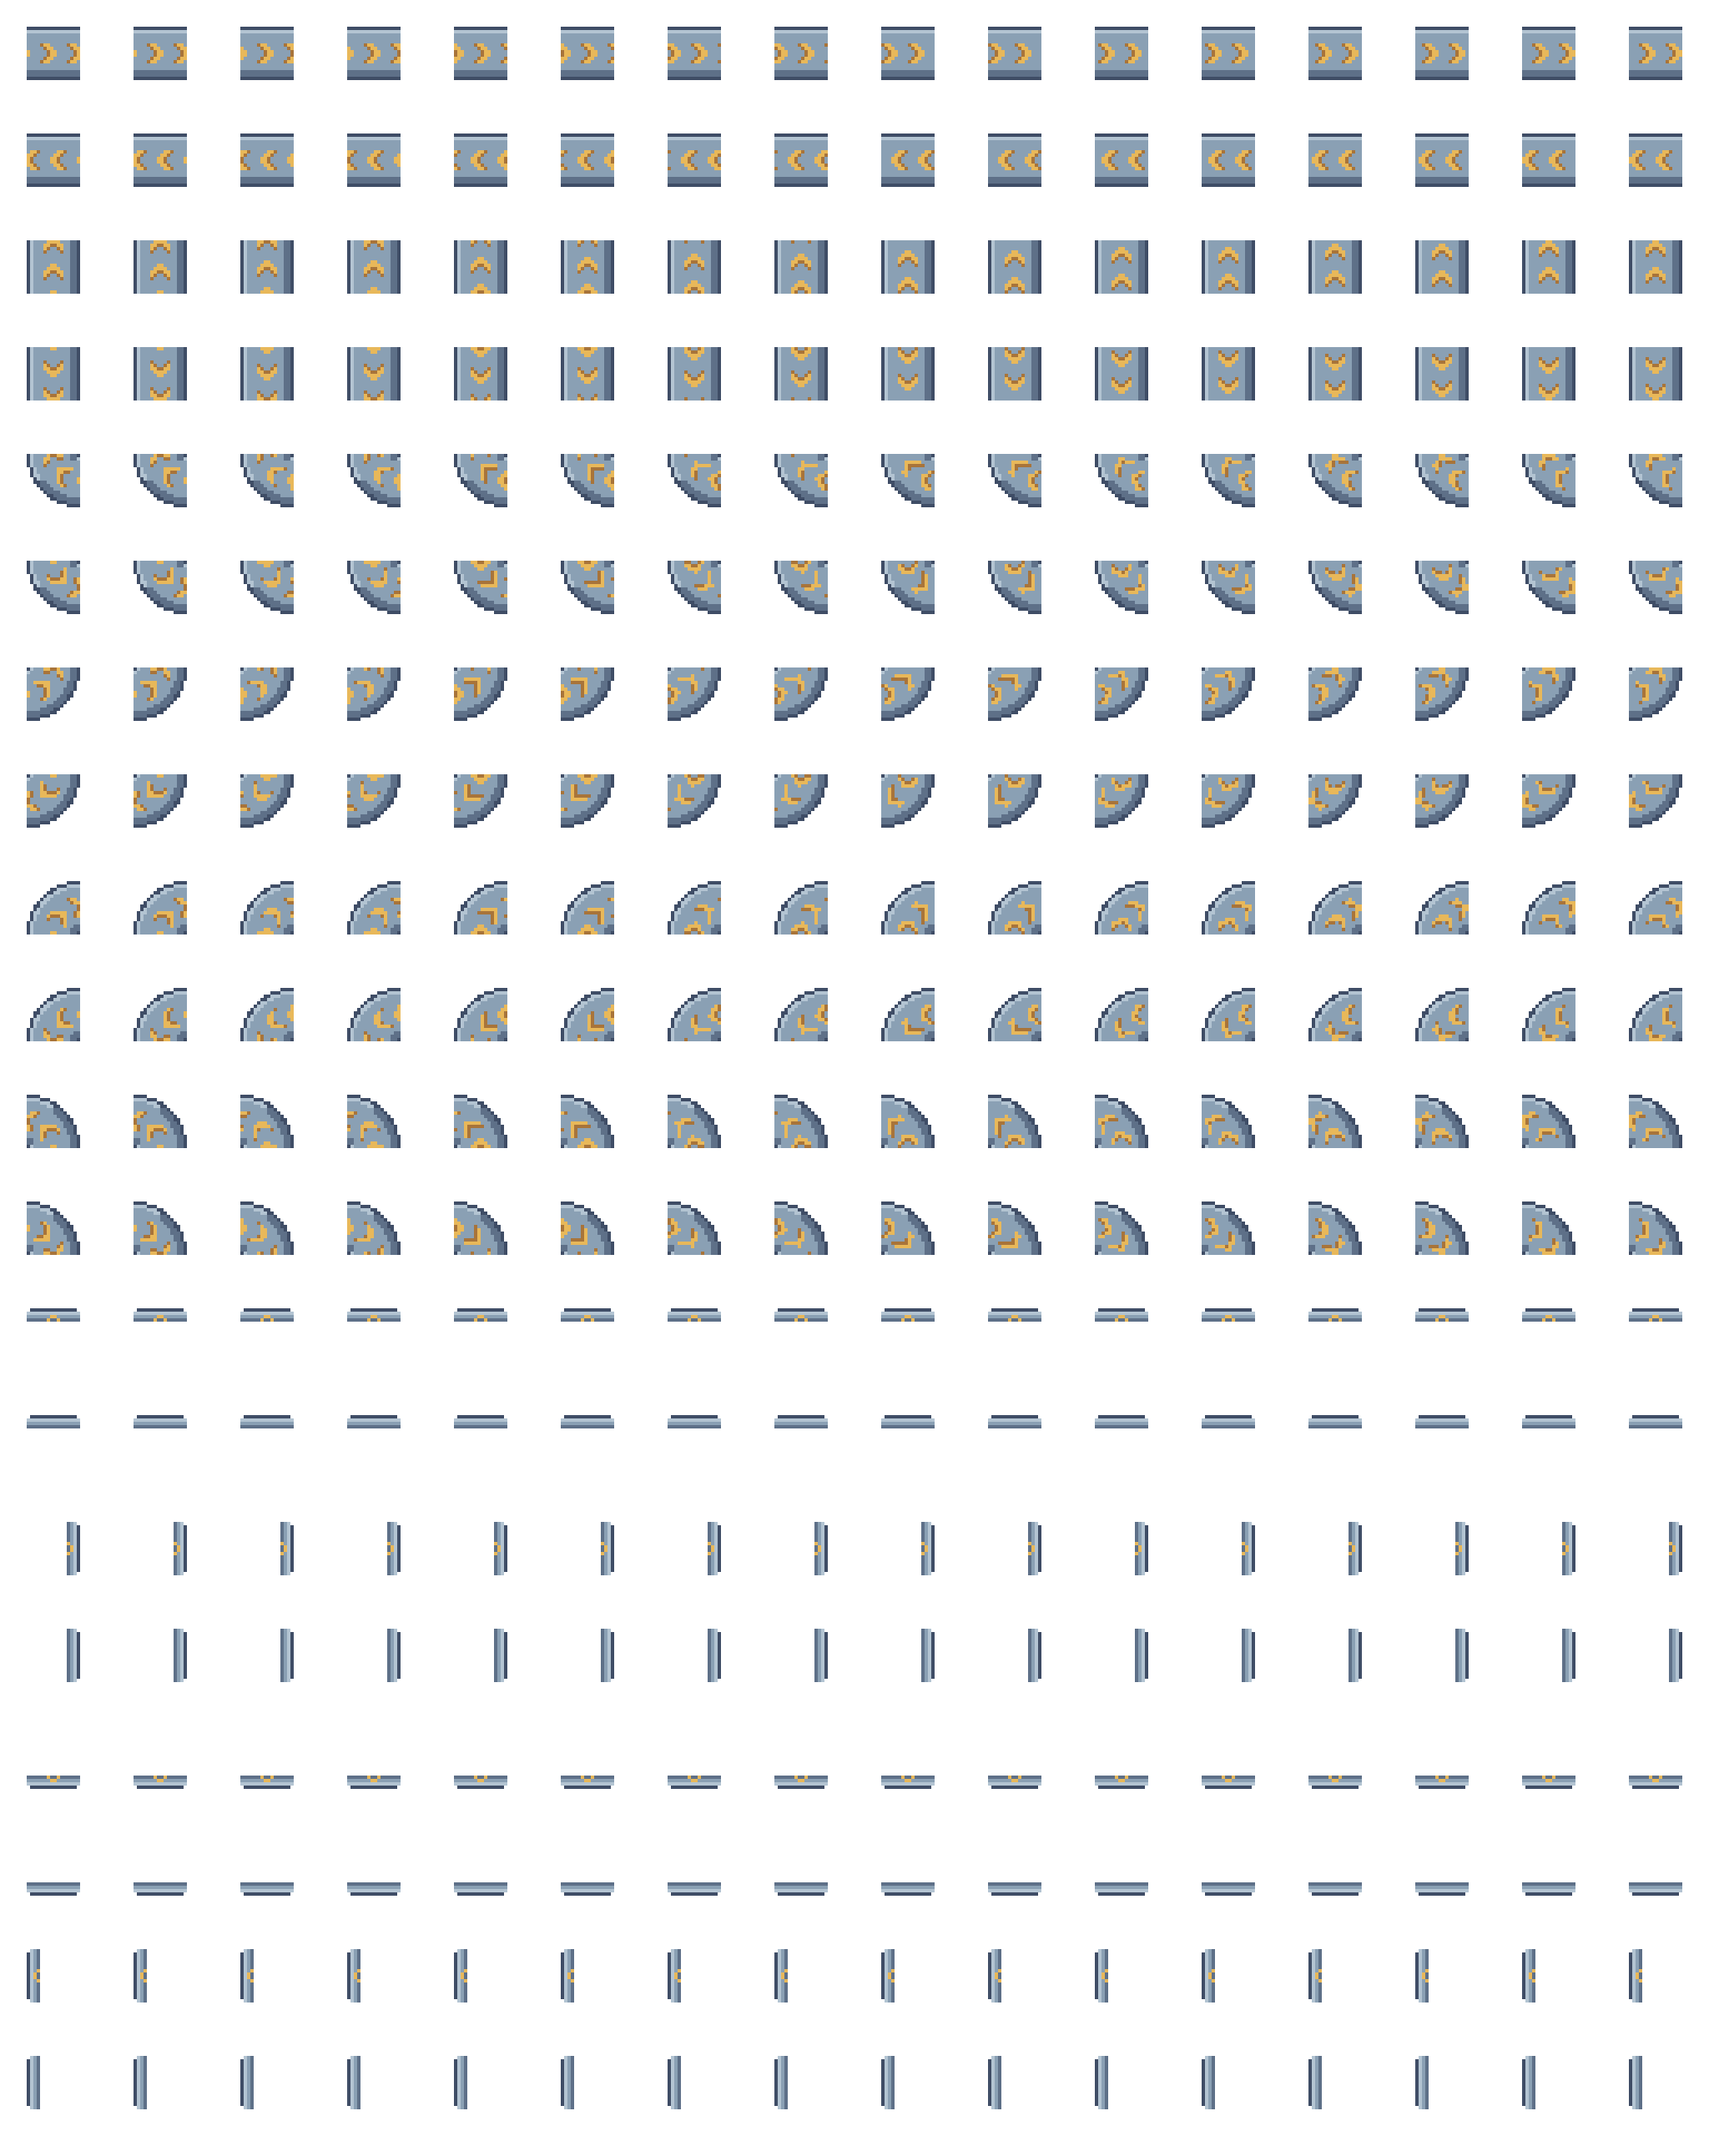
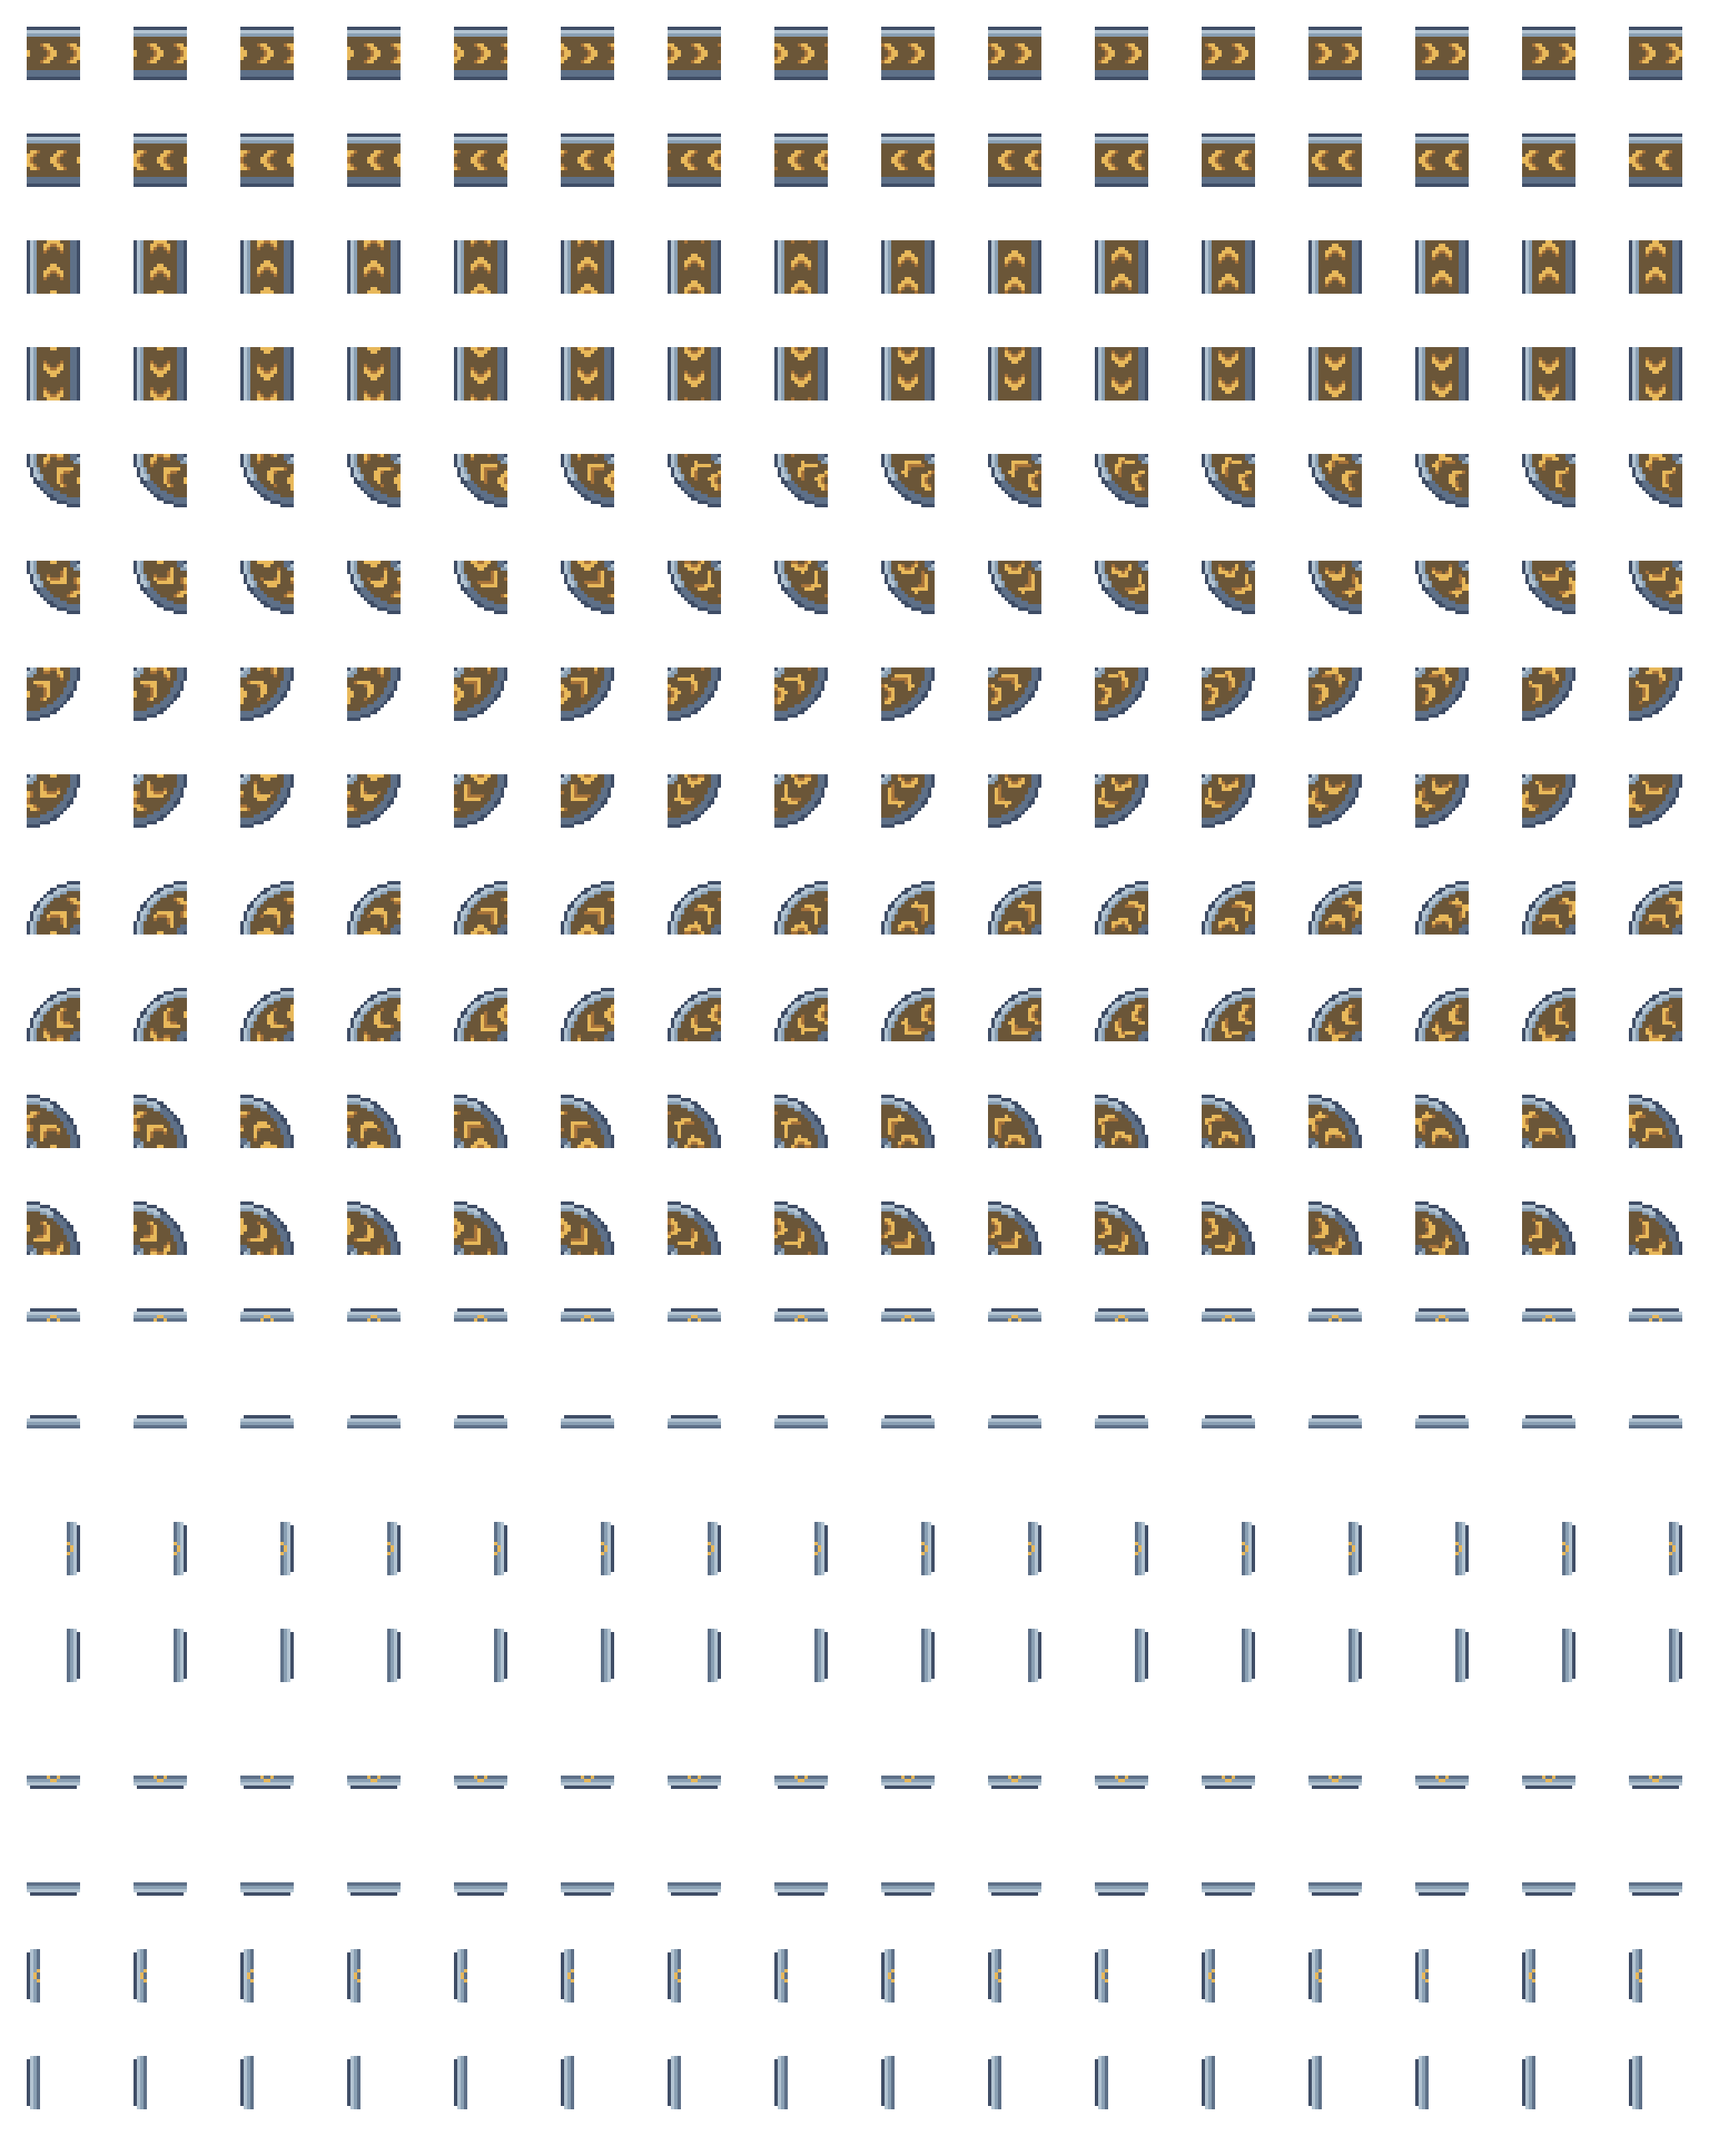
Pixel : fond des convoyeurs teinté par niveau (brun, bordeaux, marine)

diff --git a/pixel/pillow/belt.py b/pixel/pillow/belt.py
@@ -11,11 +11,13 @@ import math, os, sys
 from PIL import Image
 
 sys.path.insert(0, os.path.dirname(os.path.abspath(__file__)))
-from palette import P, BELT
+from palette import P, BELT, hx
 
 CELL = 32           # px d'art par cellule ; la case occupe [8, 24[
 T = 16              # px d'art par case
 PITCH = 8           # pas des chevrons
+# Couleur du fond du tapis, par niveau : brun (basique), bordeaux (rapide), marine (express)
+BASE = {"yellow": hx("6b5638"), "red": hx("6e3446"), "blue": hx("33507a")}
 LIGHT = (-1 / math.sqrt(2), -1 / math.sqrt(2))   # direction vers la lumière (haut gauche)
 
 # (coin, vecteur coin -> milieu du bord d'entrée, vecteur coin -> milieu du bord de sortie)
@@ -51,7 +53,7 @@ def surface(s, lat, off, tier):
             return light
         if ph >= 7:
             return dark
-    return P["steel_mid"]
+    return BASE[tier]
 
 
 def straight_pixel(x, y, flow, off, tier):
